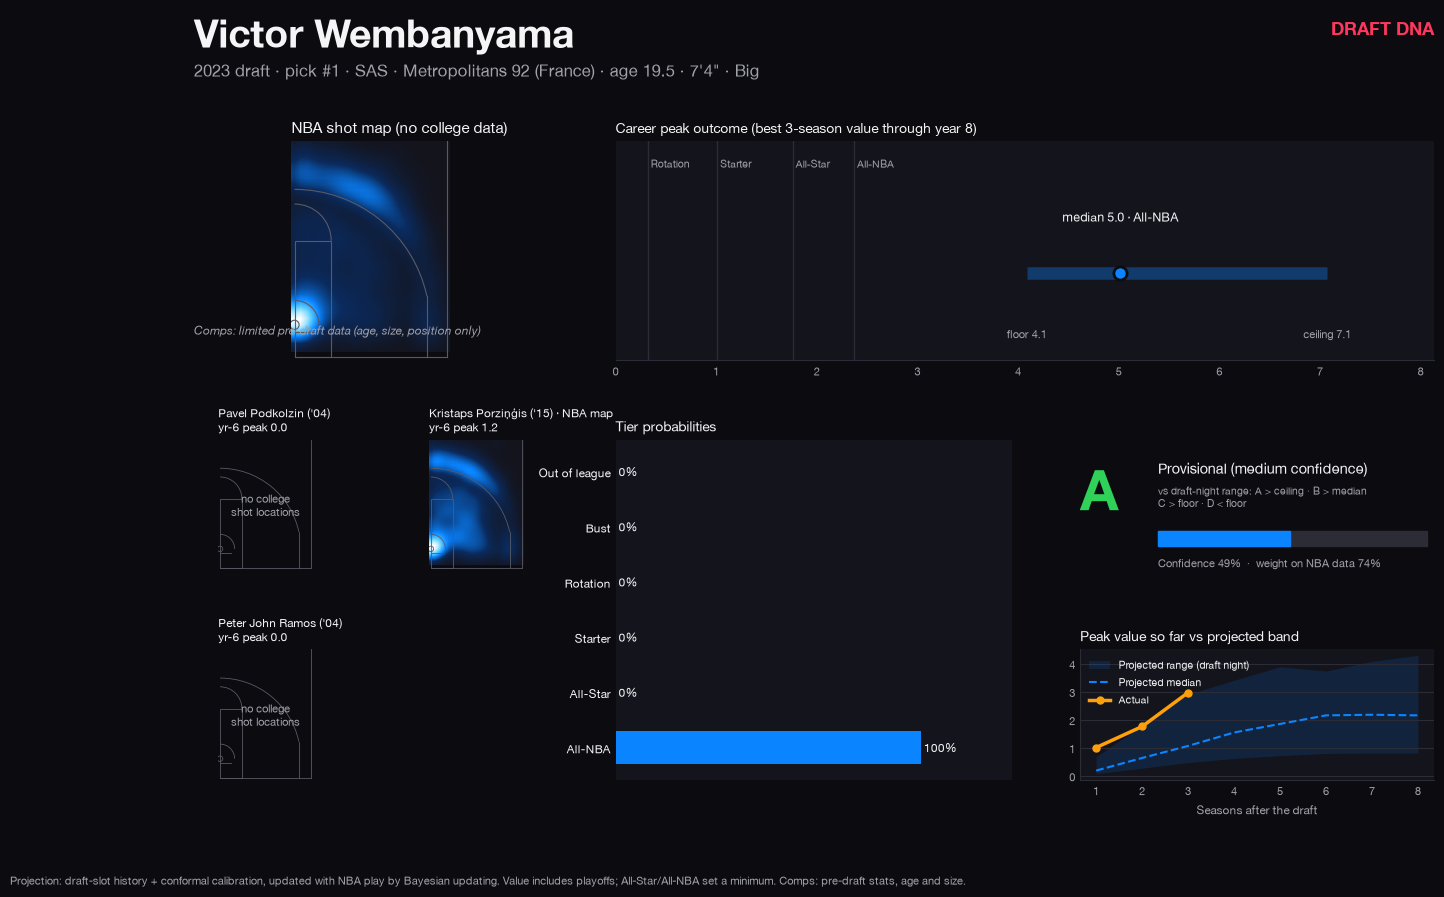
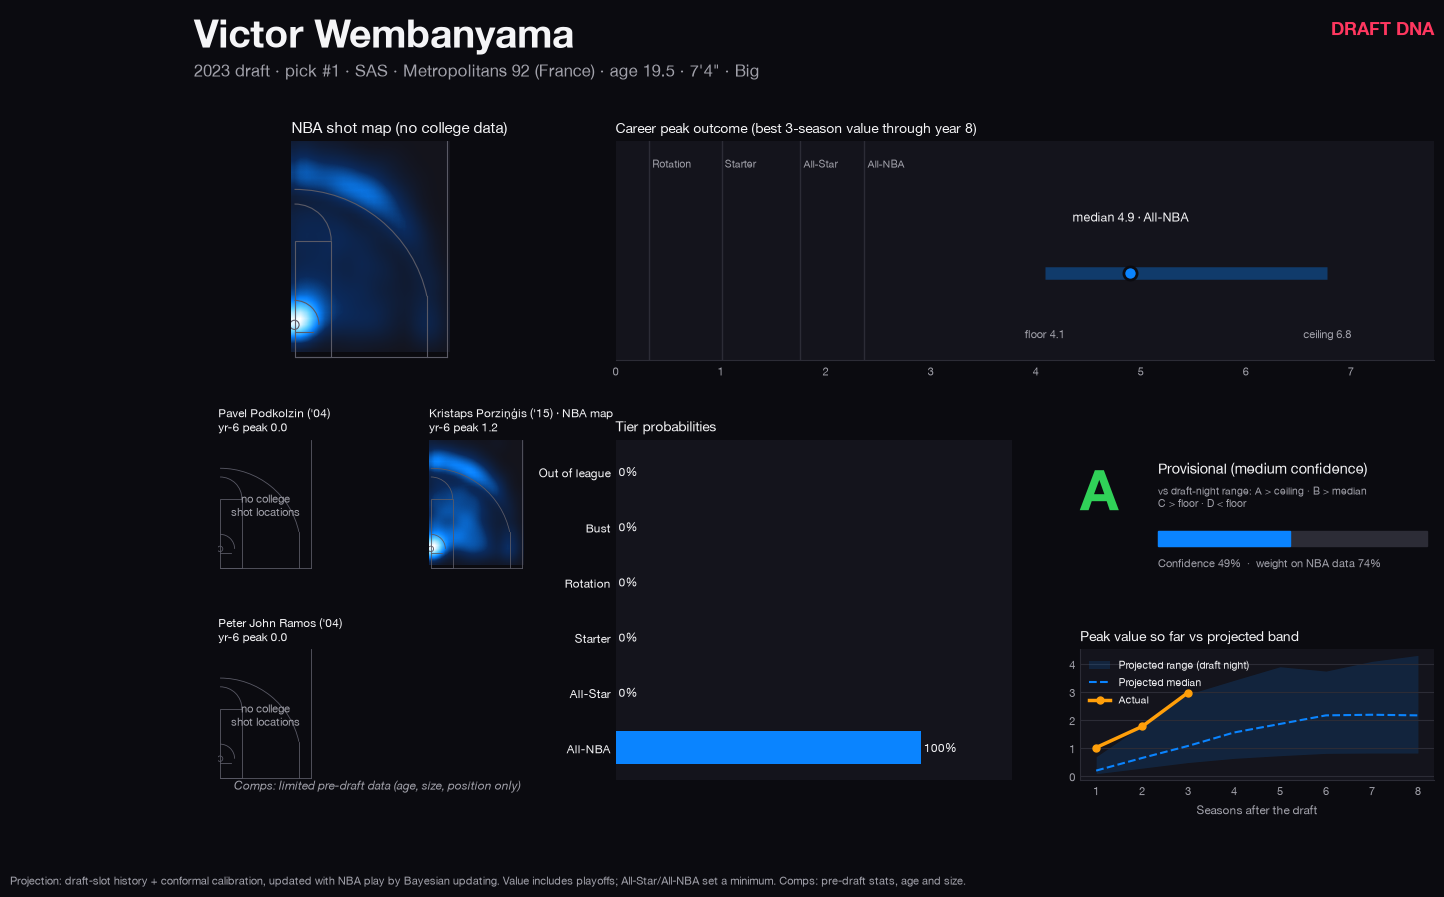
Earned tiers: All-Star/All-NBA require selections; Superstar, MVP, Legend tiers (D039)
- Finished careers: tier capped by actual selections (62 'All-Star/All-NBA' labels
  without an All-Star selection drop to Starter, e.g. Jason Terry, Tayshaun Prince)
- Honor tiers above All-NBA from career-to-date honors: Superstar (2+ All-NBA First
  Team), MVP, Legend (2+ MVPs or 10+ All-NBA)
- Cards show the earned tier ('100% · Legend'); comps note no longer overlaps the map
- Class-strength star counts include honor tiers; grades unchanged
- Unit + DQ tests for the ladder and the selection requirement

diff --git a/src/draft_dna/grading/run.py b/src/draft_dna/grading/run.py
@@ -27,7 +27,13 @@ from draft_dna.ingest.storage import read_table, write_table
 from draft_dna.logging_utils import get_logger
 from draft_dna.models import distribution as D
 from draft_dna.models import knn
-from draft_dna.outcomes.tiers import TIERS, graded_peak, tier_cuts, tier_probabilities
+from draft_dna.outcomes.tiers import (
+    TIERS,
+    graded_peak,
+    honor_tier,
+    tier_cuts,
+    tier_probabilities,
+)
 
 log = get_logger(__name__)
 
@@ -171,6 +177,37 @@ def grade_all(s: Settings, meas: dict[int, B.Measurement] | None = None) -> pd.D
         out[f"{kind}_p_all_star"] = tp[:, star:].sum(axis=1)
         # Bust risk: chance the career never reaches rotation level (Out of league or Bust).
         out[f"{kind}_p_bust"] = tp[:, : TIERS.index("Rotation")].sum(axis=1)
+    # A finished career's tier is what he *was*: All-NBA tier requires an All-NBA selection
+    # and All-Star tier an All-Star selection; otherwise it tops out at Starter (D039).
+    # Projections stay forecasts. Grades (value vs slot) are unaffected.
+    otn = read_table("modeled", "outcomes", "outcomes_through_n", s)
+    acc = otn.sort_values("n").groupby("bbref_id")[["all_star_selections", "all_nba_selections"]]
+    acc = acc.last().reindex(out.index).fillna(0)
+    cap = np.where(
+        acc["all_nba_selections"] >= 1,
+        TIERS.index("All-NBA"),
+        np.where(acc["all_star_selections"] >= 1, TIERS.index("All-Star"), TIERS.index("Starter")),
+    )
+    value_tier = np.array([TIERS.index(t) for t in out["current_tier"]])
+    finished = final  # career over (8+ seasons or retired)
+    capped = np.where(finished, np.minimum(value_tier, cap), value_tier)
+    out["current_tier"] = [TIERS[i] for i in capped]
+    out.loc[finished, "current_p_all_star"] = (capped[finished] >= star).astype(float)
+    out.loc[finished, "current_p_bust"] = (capped[finished] < TIERS.index("Rotation")).astype(float)
+    # Honors earned so far lift anyone (finished or not) into Superstar / MVP / Legend.
+    seasons_tbl = read_table("modeled", "core", "nba_player_seasons", s)
+    hon = seasons_tbl.groupby("bbref_id").agg(
+        all_nba=("all_nba_team", lambda x: int(x.notna().sum())),
+        first_team=("all_nba_team", lambda x: int((x == "1st").sum())),
+        mvps=("won_mvp", "sum"),
+    )
+    hon = hon.reindex(out.index).fillna(0)
+    honors = [
+        honor_tier(a, f, m)
+        for a, f, m in zip(hon["all_nba"], hon["first_team"], hon["mvps"], strict=True)
+    ]
+    out["honor_tier"] = honors
+    out["current_tier"] = [h or t for h, t in zip(honors, out["current_tier"], strict=True)]
     out["confidence"] = 1 - np.clip(sd / s0, 0, 1)
     out["grade"] = B.grade_letter(out["current_median"].to_numpy(), grid)
     out.loc[out["seasons"] == 0, "grade"] = "-"  # no NBA games yet: projection only

diff --git a/src/draft_dna/viz/cards.py b/src/draft_dna/viz/cards.py
@@ -29,7 +29,14 @@ from draft_dna.config import Settings
 from draft_dna.eval import metrics as M
 from draft_dna.features import shot_xy
 from draft_dna.ingest.storage import read_table
-from draft_dna.outcomes.tiers import TIERS, graded_peak, tier_cuts, tier_probabilities
+from draft_dna.outcomes.tiers import (
+    ALL_TIERS,
+    HONOR_TIERS,
+    TIERS,
+    graded_peak,
+    tier_cuts,
+    tier_probabilities,
+)
 from draft_dna.viz.court import draw_folded_half_court
 
 # Dark "hero" card: near-black surface, Apple dark-mode accents, glowing shot maps.
@@ -170,7 +177,7 @@ def _range(ax: Axes, d: CardData, pid: str) -> None:
         ax.text(
             med,
             0.95,
-            f"actual {med:.1f} · {_tier_of(d, med)}",
+            f"actual {med:.1f} · {g.get('current_tier', _tier_of(d, med))}",
             fontsize=9,
             color=TEXT,
             ha="left" if med < 0.1 * top else "center",
@@ -201,10 +208,16 @@ def _tiers(ax: Axes, d: CardData, pid: str) -> None:
     g = d.grades.loc[pid]
     q = g[[f"post_{c}" for c in M.QCOLS]].to_numpy(dtype=float)[None, :]
     p = tier_probabilities(q, d.cuts)[0]
+    tier = g.get("current_tier")
+    if str(g["status"]).startswith("Career") and tier in ALL_TIERS:
+        # Finished career: the tier he actually reached (All-Star/All-NBA need selections;
+        # Superstar/MVP/Legend are honors above the All-NBA bar).
+        p = np.eye(len(TIERS))[min(ALL_TIERS.index(tier), len(TIERS) - 1)]
     y = np.arange(len(TIERS))[::-1]
     ax.barh(y, p, color=BLUE, height=0.6)
     for yi, v in zip(y, p, strict=True):
-        ax.text(v + 0.01, yi, f"{v:.0%}", va="center", fontsize=8.5, color=TEXT)
+        honor = f" · {tier}" if tier in HONOR_TIERS and v > 0.99 else ""
+        ax.text(v + 0.01, yi, f"{v:.0%}{honor}", va="center", fontsize=8.5, color=TEXT)
     ax.set_yticks(y, TIERS, fontsize=8.5, color=TEXT)
     ax.set_xlim(0, max(p.max() * 1.3, 0.3))
     ax.set_xticks([])
@@ -354,8 +367,8 @@ def _render(d: CardData, pid: str, path: Path) -> Path:
     limited = str(g.get("prospect_source")) in ("high_school", "other_team")
     if limited and len(comps):
         fig.text(
-            0.125,
-            0.555,
+            0.15,
+            0.1,
             "Comps: limited pre-draft data (age, size, position only)",
             fontsize=8.5,
             color=TEXT_2,

diff --git a/tests/test_data_quality.py b/tests/test_data_quality.py
@@ -464,3 +464,23 @@ def test_draft_night_trades_credit_the_acquiring_team(con) -> None:
     assert p.loc["jamesle01", "rights_team"] == "CLE"  # no draft-night trade
     share = (p.loc[p["drafted"], "rights_team"] != p.loc[p["drafted"], "team_id"]).mean()
     assert 0.15 < share < 0.40
+
+
+def test_finished_star_tiers_require_actual_selections(con) -> None:
+    g = q(
+        con,
+        """SELECT g.bbref_id, g.current_tier, o.all_star_selections, o.all_nba_selections
+           FROM modeled.grading__grades g
+           JOIN (SELECT bbref_id, max(all_star_selections) AS all_star_selections,
+                        max(all_nba_selections) AS all_nba_selections
+                 FROM modeled.outcomes__outcomes_through_n GROUP BY bbref_id) o
+             USING (bbref_id)
+           WHERE g.status LIKE 'Career%'""",
+    )
+    assert len(g) > 1000
+    star = g["current_tier"].isin(["All-Star", "All-NBA", "Superstar", "MVP", "Legend"])
+    assert (
+        (g.loc[star, "all_star_selections"] >= 1) | (g.loc[star, "all_nba_selections"] >= 1)
+    ).all()
+    nba = g["current_tier"].isin(["All-NBA", "Superstar", "MVP", "Legend"])
+    assert (g.loc[nba, "all_nba_selections"] >= 1).all()

diff --git a/src/draft_dna/outcomes/tiers.py b/src/draft_dna/outcomes/tiers.py
@@ -26,6 +26,22 @@ from draft_dna.eval import metrics as M
 from draft_dna.ingest.storage import table_path
 
 TIERS = ["Out of league", "Bust", "Rotation", "Starter", "All-Star", "All-NBA"]
+# Honor tiers above All-NBA (D039): earned, not projected, so they sit outside the
+# value-cutoff tiers that projections and tier probabilities use.
+HONOR_TIERS = ["Superstar", "MVP", "Legend"]
+ALL_TIERS = TIERS + HONOR_TIERS
+
+
+def honor_tier(all_nba: float, first_team: float, mvps: float) -> str | None:
+    """Legend: 2+ MVPs or 10+ All-NBA selections. MVP: won one. Superstar: 2+ All-NBA
+    First Team selections. None otherwise."""
+    if mvps >= 2 or all_nba >= 10:
+        return "Legend"
+    if mvps >= 1:
+        return "MVP"
+    if first_team >= 2:
+        return "Superstar"
+    return None
 
 
 def role_anchor(row: pd.Series) -> int:

diff --git a/tests/test_grading.py b/tests/test_grading.py
@@ -180,3 +180,13 @@ def test_player_metrics_stash_filter_shrinkage_and_pick_value() -> None:
     )
     pv = C.pick_value(curve)
     assert pv["value"].iloc[0] == 100 and (np.diff(pv["value"]) <= 0).all()
+
+
+def test_honor_tiers_ladder() -> None:
+    from draft_dna.outcomes.tiers import honor_tier
+
+    assert honor_tier(all_nba=21, first_team=13, mvps=4) == "Legend"  # LeBron
+    assert honor_tier(all_nba=11, first_team=4, mvps=0) == "Legend"  # Chris Paul (10+ All-NBA)
+    assert honor_tier(all_nba=1, first_team=1, mvps=1) == "MVP"  # Derrick Rose
+    assert honor_tier(all_nba=6, first_team=6, mvps=0) == "Superstar"  # Luka
+    assert honor_tier(all_nba=5, first_team=1, mvps=0) is None  # stays All-NBA

diff --git a/src/draft_dna/grading/classes.py b/src/draft_dna/grading/classes.py
@@ -29,8 +29,8 @@ from sklearn.isotonic import IsotonicRegression
 REFERENCE_LAST_CLASS = 2017  # every career in these classes has 8+ seasons
 MAX_PICK = 60
 LOTTERY = 14
-STAR_TIERS = ("All-Star", "All-NBA")
-STARTER_TIERS = ("Starter", "All-Star", "All-NBA")
+STAR_TIERS = ("All-Star", "All-NBA", "Superstar", "MVP", "Legend")
+STARTER_TIERS = ("Starter", *STAR_TIERS)
 
 
 def _window(pick: int) -> int:

diff --git a/DECISIONS.md b/DECISIONS.md
@@ -394,3 +394,22 @@ Not pre-registered, so a hypothesis only: among 15 shot features, shrunken rim F
 - **Why:** with 115 training players (the 2005 class learns only from 1996–97), k = 60 averaged a #1 pick with picks down to ~#30, and all of 2005's top 5 got identical projections (median 0.75, bust risk 38%).
 - **Effect:** 2005 top-5 bust risk is now 12% (in line with other years) and medians differ by slot.
 - **Validation:** unchanged (fit ≤ 2010 has large n). The as-of finished-career mix is A 9.1 / B 36.4 / C 30.3 / D 24.1%.
+
+### D039: Earned tiers for finished careers; honor tiers above All-NBA
+
+**Problem:** tiers were value cutoffs (D017) with accolade *floors*, so value alone could carry a player into All-Star or All-NBA tier without a selection.
+- 62 finished careers were labeled All-Star or All-NBA with no All-Star selection, including Jason Terry, Tayshaun Prince, Kerry Kittles and Mike Bibby. Several are role players on deep playoff teams lifted by playoff value (D033).
+- 15 All-Stars were labeled All-NBA without an All-NBA selection.
+
+**Rule for finished careers** (8+ seasons or retired): the label is capped by selections.
+- **All-NBA tier** requires an All-NBA selection.
+- **All-Star tier** requires an All-Star selection.
+- **Otherwise:** at most Starter.
+- **Unchanged:** projections and in-progress forecasts keep the value tiers, so "Projected tier: All-Star" means expected to become one. Grades (value vs slot) don't change, because the label isn't the value. A DPOY's value floor (D034) still counts toward the grade, but his tier label is Starter without an All-Star selection.
+
+**Honor tiers above All-NBA:** these are earned, never projected, and come from career-to-date honors, so active players qualify.
+- **Superstar:** 2+ All-NBA First Team selections. 7 players: McGrady, Wade, Howard, Kawhi, Davis, Tatum, Dončić.
+- **MVP:** won an MVP. 5 players: Iverson, Rose, Westbrook, Harden, Embiid.
+- **Legend:** 2+ MVPs or 10+ All-NBA selections. 11 players: Kobe, Nash, Duncan, Dirk, LeBron, Paul, Durant, Curry, Giannis, Jokić, SGA.
+- **Not used:** Finals MVP isn't in the data (D033).
+- **How they're used:** class-strength star counts include the honor tiers, and cards show the honor on the All-NBA bar.

diff --git a/README.md b/README.md
@@ -125,7 +125,17 @@ Three definitions of season value were tested against things the metric never se
 | All-Star | 1.76–2.37 | All-Star selection |
 | All-NBA | ≥ 2.37 | All-NBA selection |
 
-Tiers describe how a player *played*, not how he was voted (67% exact agreement with the award and role anchors, 97% within one tier).
+Tiers describe how a player *played*, not how he was voted (67% exact agreement with the award and role anchors, 97% within one tier). Projections use these six value tiers.
+
+**Finished careers are labeled by what was actually earned** ([D039](DECISIONS.md)):
+- **All-Star and All-NBA tiers require the real selection.** Strong numbers alone top out at Starter. This moved 62 players, such as Jason Terry and Tayshaun Prince, who reached All-Star-level value without ever being selected.
+- **Three honor tiers sit above All-NBA**, for any player who has earned them:
+
+| Honor tier | Requires | Players |
+|---|---|---|
+| Superstar | 2+ All-NBA First Team selections | McGrady, Wade, Dwight Howard, Kawhi, Anthony Davis, Tatum, Luka |
+| MVP | an MVP award | Iverson, Rose, Westbrook, Harden, Embiid |
+| Legend | 2+ MVPs or 10+ All-NBA selections | Kobe, Nash, Duncan, Dirk, LeBron, Chris Paul, Durant, Curry, Giannis, Jokić, SGA |
 
 ![Tiers by pick](reports/phase2/tiers_by_pick.png)
 
